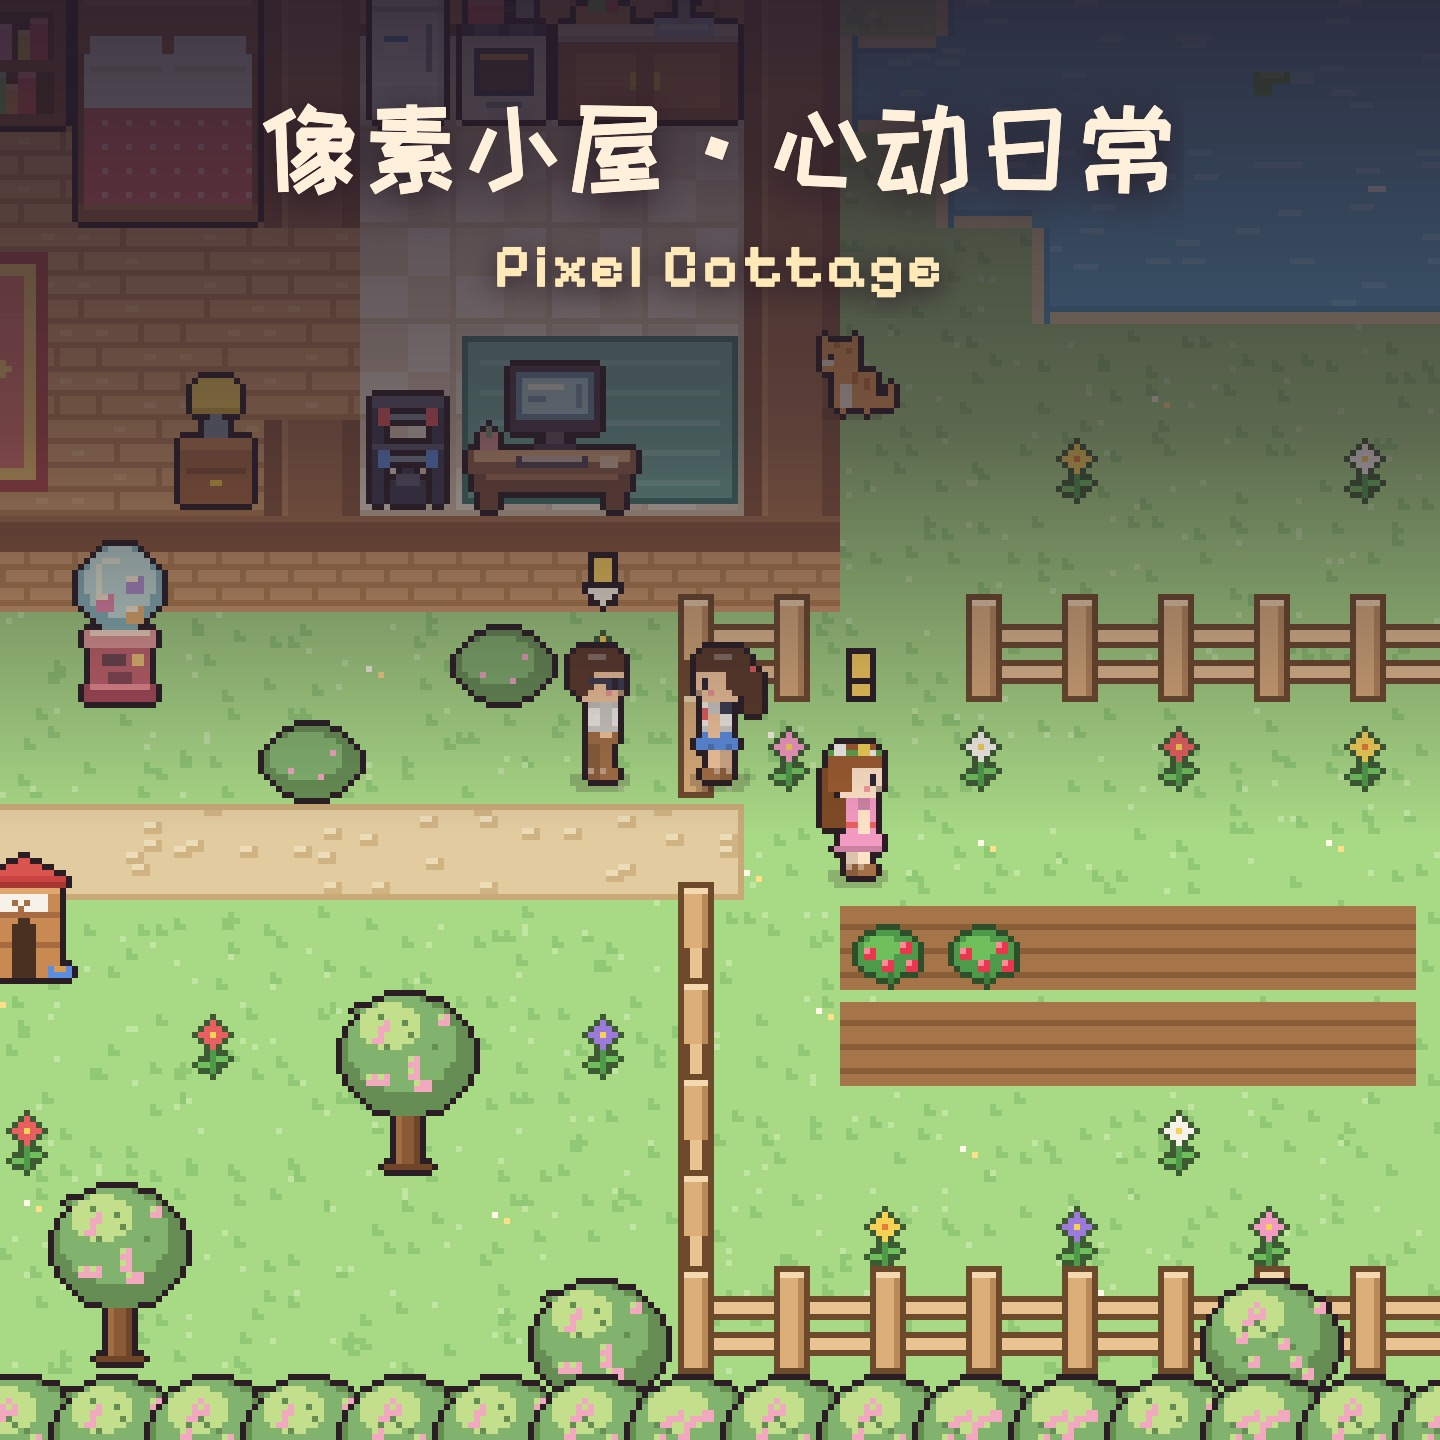
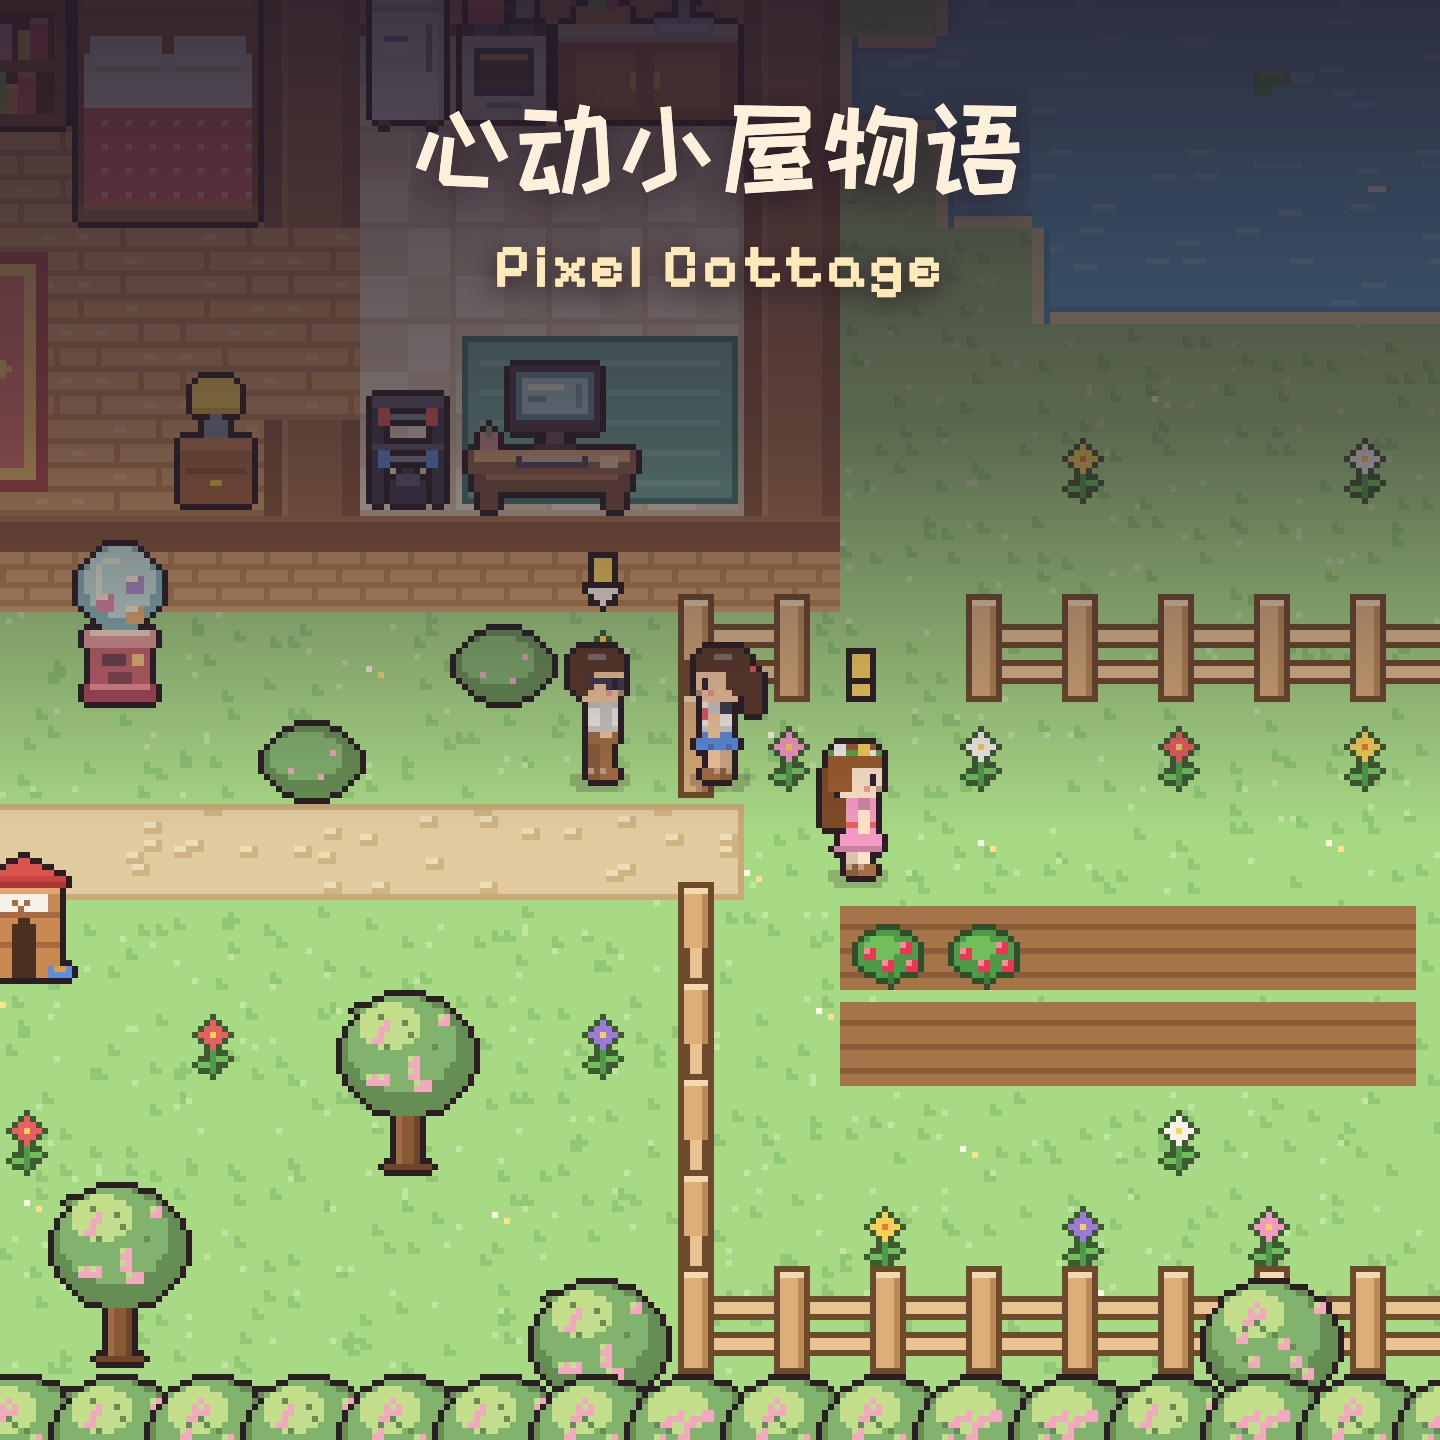
Rename the TapTap store name to 心动小屋物语
The store name was 像素小屋·心动日常. The promo images, privacy policy and
listing notes now use 心动小屋物语. The in-game title stays 像素小屋, and every
character of the new name was already in the bundled font subset.

diff --git a/privacy.html b/privacy.html
@@ -3,7 +3,7 @@
 <head>
 <meta charset="utf-8">
 <meta name="viewport" content="width=device-width,initial-scale=1">
-<title>《像素小屋·心动日常》隐私政策</title>
+<title>《心动小屋物语》隐私政策</title>
 <style>
   :root{--bg:#fff6e6;--ink:#3a2a2e;--muted:#8b7466;--line:#e8d5b8;--accent:#c24d68}
   @media (prefers-color-scheme:dark){:root{--bg:#2a2230;--ink:#f5eadc;--muted:#b9a897;--line:#463a50;--accent:#f07890}}
@@ -18,10 +18,10 @@
 </head>
 <body>
 <main>
-  <h1>《像素小屋·心动日常》隐私政策</h1>
+  <h1>《心动小屋物语》隐私政策</h1>
   <p class="meta">生效日期：2026 年 11 月 25 日</p>
 
-  <p>《像素小屋·心动日常》（Pixel Cottage，网页版名为「像素小屋 · HomeLove」）是一款单机网页小游戏。游戏没有自己的服务器，没有账号系统，游玩时不联网传输任何数据；游戏用到的文字、字体和代码都随游戏一起分发，不从其他网站加载。</p>
+  <p>《心动小屋物语》（Pixel Cottage，网页版名为「像素小屋 · HomeLove」）是一款单机网页小游戏。游戏没有自己的服务器，没有账号系统，游玩时不联网传输任何数据；游戏用到的文字、字体和代码都随游戏一起分发，不从其他网站加载。</p>
 
   <h2>一、我们不收集个人信息</h2>
   <p>本游戏不收集、不存储、不上传、不分享用户的任何个人信息，包括但不限于姓名、手机号、身份证号、账号、位置信息、设备信息、通讯录、相册、麦克风和摄像头。游戏不调用 TapTap 登录接口，不接入任何第三方统计、广告、支付或社交 SDK。</p>

diff --git a/scripts/subset-fonts.py b/scripts/subset-fonts.py
@@ -30,7 +30,7 @@ FONTS = {
[1 lines of base64/hex data omitted]
 }
 # Store names drawn on the TapTap promo art, in case they ever differ from the game text.
-EXTRA = '像素小屋·心动日常 Pixel Cottage ピクセル小屋'
+EXTRA = '心动小屋物语 Pixel Cottage ピクセル小屋'
 
 
 def game_text():
